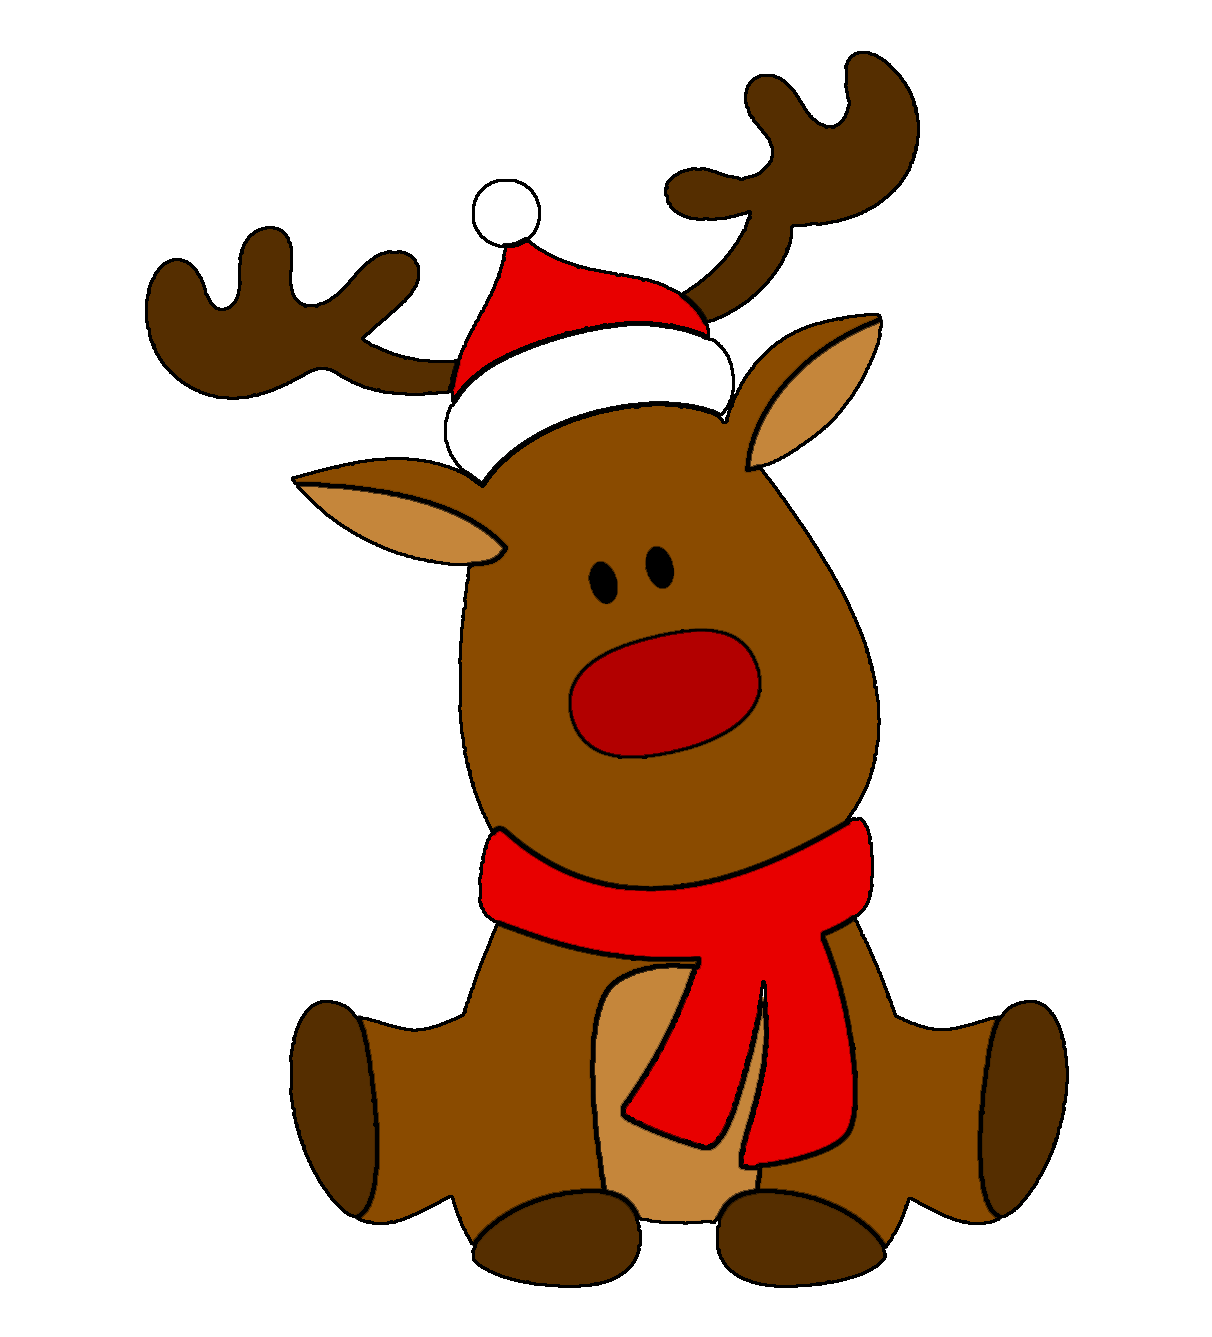
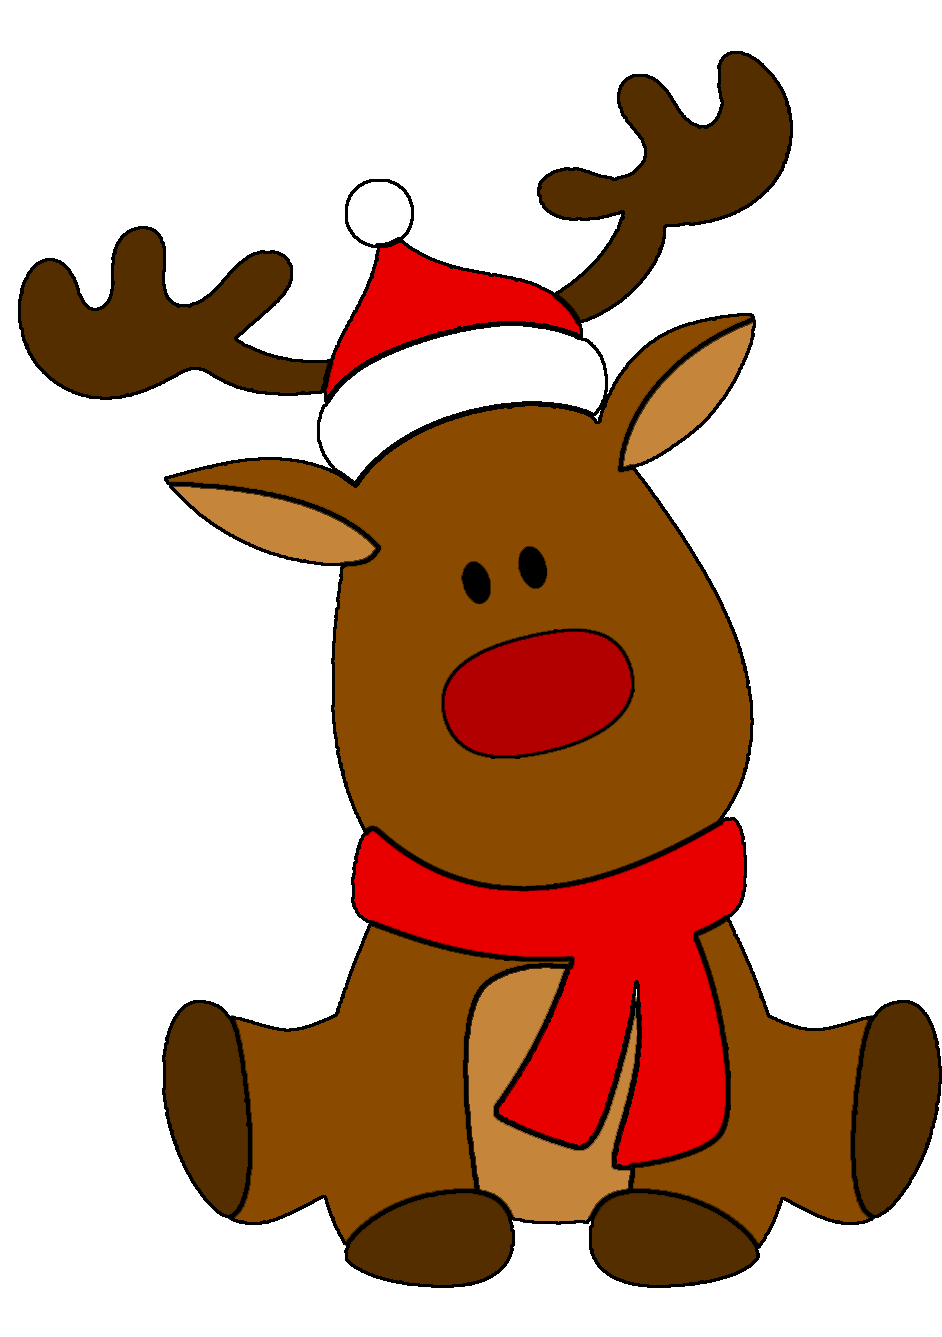
added some images and put snow back in

diff --git a/src/Components/NavBar.js b/src/Components/NavBar.js
@@ -1,0 +1,106 @@
+//Imports
+import React, { useState, useContext, useEffect } from 'react';
+import { View, StyleSheet, TouchableOpacity, ScrollView } from 'react-native';
+import { Text } from 'react-native-elements';
+
+//Components
+
+
+//Context
+
+
+//Style
+
+const NavBar = ({ target, Screen }) => {
+
+    //State------------------------------------------------------
+
+
+    //Context----------------------------------------------------
+
+
+    //Functions--------------------------------------------------
+    const TextStyle = (value) => {
+        if (value === Screen) {
+            return styles.SelectedText
+        } else {
+            return styles.optionsText
+        }
+    }
+
+    //Show-------------------------------------------------------
+
+
+    //Main-------------------------------------------------------
+
+
+    return (
+        <>
+            <View style={{flex:1, height: 5}}>
+                <ScrollView
+                    horizontal
+                    style={styles.ScrollStyle}
+                    contentContainerStyle={styles.Wrapper}
+                    showsHorizontalScrollIndicator={false}
+                    bounces={false}
+                >
+                    <TouchableOpacity onPress={() => target('Home')} style={styles.Butt}>
+                        <Text h3 style={TextStyle('Home')}>
+                            Home
+                        </Text>
+                    </TouchableOpacity>
+                    <TouchableOpacity onPress={() => target('Weeks')} style={styles.Butt}>
+                        <Text h3 style={TextStyle('Weeks')}>
+                            Weeks
+                        </Text>
+                    </TouchableOpacity>
+                    <TouchableOpacity onPress={() => target('Days')} style={styles.Butt}>
+                        <Text h3 style={TextStyle('Days')}>
+                            Days
+                        </Text>
+                    </TouchableOpacity>
+                    <TouchableOpacity onPress={() => target('Hours')} style={styles.Butt}>
+                        <Text h3 style={TextStyle('Hours')}>
+                            Hours
+                        </Text>
+                    </TouchableOpacity>
+                    <TouchableOpacity onPress={() => target('Minutes')} style={styles.Butt}>
+                        <Text h3 style={TextStyle('Minutes')}>
+                            Minutes
+                        </Text>
+                    </TouchableOpacity>
+                    <TouchableOpacity onPress={() => target('Seconds')} style={styles.Butt}>
+                        <Text h3 style={TextStyle('Seconds')}>
+                            Seconds
+                        </Text>
+                    </TouchableOpacity>
+                </ScrollView>
+            </View>
+        </>
+    )
+}
+
+const styles = StyleSheet.create({
+    Wrapper: {
+        backgroundColor: '#f8f2f2',
+        maxHeight: 75,
+    },
+    optionsText: {
+        fontFamily: 'Baskerville-BoldItalic',
+        color: '#b52c2c',
+        marginHorizontal: 15,
+    },
+    Butt: {
+        justifyContent: 'center',
+    },
+    SelectedText: {
+        fontFamily: 'Baskerville-BoldItalic',
+        color: '#0c9547',
+        marginHorizontal: 15,
+        textShadowColor: '#c60606',
+        textShadowRadius: 2,
+        paddingVertical: 15,
+    },
+})
+
+export default NavBar;

diff --git a/src/Components/BGImage.js b/src/Components/BGImage.js
@@ -13,7 +13,7 @@ import { Text } from 'react-native-elements';
 
 
 const SCREENHEIGHT = Dimensions.get('window').height
-const BGImage = ({ pic }) => {
+const BGImage = ({ pic, side }) => {
 
     //State------------------------------------------------------
 
@@ -22,7 +22,13 @@ const BGImage = ({ pic }) => {
 
 
     //Functions--------------------------------------------------
-
+    const chooseSide = () => {
+        if (side === 'right') {
+            return styles.picStyle
+        } else {
+            return styles.picStyleLeft
+        }
+    }
 
     //Show-------------------------------------------------------
 
@@ -34,7 +40,7 @@ const BGImage = ({ pic }) => {
         <>
             <Image
                 source={pic}
-                style={styles.picStyle}
+                style={chooseSide()}
             />
         </>
     )
@@ -46,8 +52,16 @@ const styles = StyleSheet.create({
         height: .4 * SCREENHEIGHT,
         width: .36 * SCREENHEIGHT,
         position: 'absolute',
-        bottom: 50,
+        bottom: -10,
         right: 0
+    },
+    picStyleLeft: {
+        resizeMode: 'contain',
+        height: .4 * SCREENHEIGHT,
+        width: .36 * SCREENHEIGHT,
+        position: 'absolute',
+        bottom: -10,
+        left: -40
     }
 })
 

diff --git a/src/Screens/HomeScreen.js b/src/Screens/HomeScreen.js
@@ -2,7 +2,7 @@ import React, { useState } from 'react';
 import { View, StyleSheet } from 'react-native';
 
 import Header from '../Components/Header';
-import CountdownOptions from '../Components/CountdownOptions';
+import NavBar from '../Components/NavBar';
 
 import TodayScreen from '../Screens/TodayScreen';
 import WeeksScreen from '../Screens/WeeksScreen';
@@ -10,6 +10,8 @@ import DaysScreen from '../Screens/DaysScreen';
 import HoursScreen from '../Screens/HoursScreen';
 import MinutesScreen from '../Screens/MinutesScreen';
 import SecondsScreen from '../Screens/SecondsScreen';
+
+import Snow from 'react-native-snow-bg'
 
 const HomeScreen = () => {
     //State
@@ -33,12 +35,13 @@ const HomeScreen = () => {
 
     return (
         <>
-            <View style={styles.wrapper}>                
+            <View style={styles.wrapper}>
+                <Snow fallSpeed='medium' snowflakesCount={100}/>
                 <Header
                     title='CHRISTMAS COUNTDOWN'
                 />
 
-                <CountdownOptions
+                <NavBar
                     target={(value) => setCurrentScreen(value)}
                     Screen={CurrentScreen}
                 />

diff --git a/src/Screens/DaysScreen.js b/src/Screens/DaysScreen.js
@@ -7,6 +7,7 @@ import Spacer from '../Components/Spacer';
 import TimeData from '../Components/TimeData';
 import CountdownClock from '../Components/CountdownClock';
 import AdMob from '../Components/AdMob';
+import BGImage from '../Components/BGImage';
 
 import { Context as TimeContext } from '../Context/TimeContext';
 
@@ -54,12 +55,16 @@ const DaysScreen = () => {
 
     return (
         <>
+            <BGImage
+                pic={require('../../Images/Tree.png')}
+                side='right'
+            />
             <CountdownClock
                 isActive={true}
                 target={() => updateDate()}
             />
             <View style={styles.wrapper}>
-                
+
                 <Spacer />
                 <Spacer />
                 <Spacer />
@@ -104,7 +109,7 @@ const styles = StyleSheet.create({
     wrapper: {
         flex: 1,
         justifyContent: 'center',
-        bottom: 30
+        bottom: 200
     }
 })
 

diff --git a/src/Screens/MinutesScreen.js b/src/Screens/MinutesScreen.js
@@ -7,6 +7,7 @@ import CountdownClock from '../Components/CountdownClock';
 import Spacer from '../Components/Spacer';
 import TimeData from '../Components/TimeData';
 import AdMob from '../Components/AdMob';
+import BGImage from '../Components/BGImage';
 
 import { Context as TimeContext } from '../Context/TimeContext';
 
@@ -48,6 +49,10 @@ const MinutesScreen = () => {
 
     return (
         <>
+        <BGImage
+                pic={require('../../Images/Rudolph.png')}
+                side='right'
+            />
             <CountdownClock
                 isActive={true}
                 target={() => updateDate()}
@@ -88,7 +93,7 @@ const styles = StyleSheet.create({
     wrapper: {
         flex: 1,
         justifyContent: 'center',
-        bottom: 30
+        bottom: 200
     }
 })
 

diff --git a/src/Screens/SecondsScreen.js b/src/Screens/SecondsScreen.js
@@ -7,6 +7,7 @@ import CountdownClock from '../Components/CountdownClock';
 import Spacer from '../Components/Spacer';
 import TimeData from '../Components/TimeData';
 import AdMob from '../Components/AdMob';
+import BGImage from '../Components/BGImage';
 
 import { Context as TimeContext } from '../Context/TimeContext';
 
@@ -41,6 +42,9 @@ const SecondsScreen = () => {
 
     return (
         <>
+            <BGImage
+                pic={require('../../Images/Rudolph.png')}
+            />
             <CountdownClock
                 isActive={true}
                 target={() => updateDate()}
@@ -76,7 +80,7 @@ const styles = StyleSheet.create({
     wrapper: {
         flex: 1,
         justifyContent: 'center',
-        bottom: 30
+        bottom: 200
     }
 })
 

diff --git a/src/Screens/HoursScreen.js b/src/Screens/HoursScreen.js
@@ -7,6 +7,7 @@ import CountdownClock from '../Components/CountdownClock';
 import Spacer from '../Components/Spacer';
 import TimeData from '../Components/TimeData';
 import AdMob from '../Components/AdMob';
+import BGImage from '../Components/BGImage';
 
 import { Context as TimeContext } from '../Context/TimeContext';
 
@@ -54,6 +55,9 @@ const HoursScreen = () => {
 
     return (
         <>
+        <BGImage
+                pic={require('../../Images/cane.png')}
+            />
             <CountdownClock
                 isActive={true}
                 target={() => updateDate()}
@@ -99,7 +103,7 @@ const styles = StyleSheet.create({
     wrapper: {
         flex: 1,
         justifyContent: 'center',
-        bottom: 30
+        bottom: 200
     }
 })
 

diff --git a/src/Screens/TodayScreen.js b/src/Screens/TodayScreen.js
@@ -34,6 +34,7 @@ const HomeScreen = () => {
         <>
             <BGImage
                 pic={require('../../Images/Santa.png')}
+                side='right'
             />
             <CountdownClock
                 isActive={true}
@@ -64,7 +65,7 @@ const styles = StyleSheet.create({
     wrapper: {
         flex: 1,
         justifyContent: 'center',
-        bottom: 90
+        bottom: 200
     },
     Text: {
         fontFamily: 'Baskerville-BoldItalic',

diff --git a/src/Screens/WeeksScreen.js b/src/Screens/WeeksScreen.js
@@ -114,7 +114,7 @@ const styles = StyleSheet.create({
     wrapper: {
         flex: 1,
         justifyContent: 'center',
-        bottom: 30
+        bottom: 200
     }
 })
 
